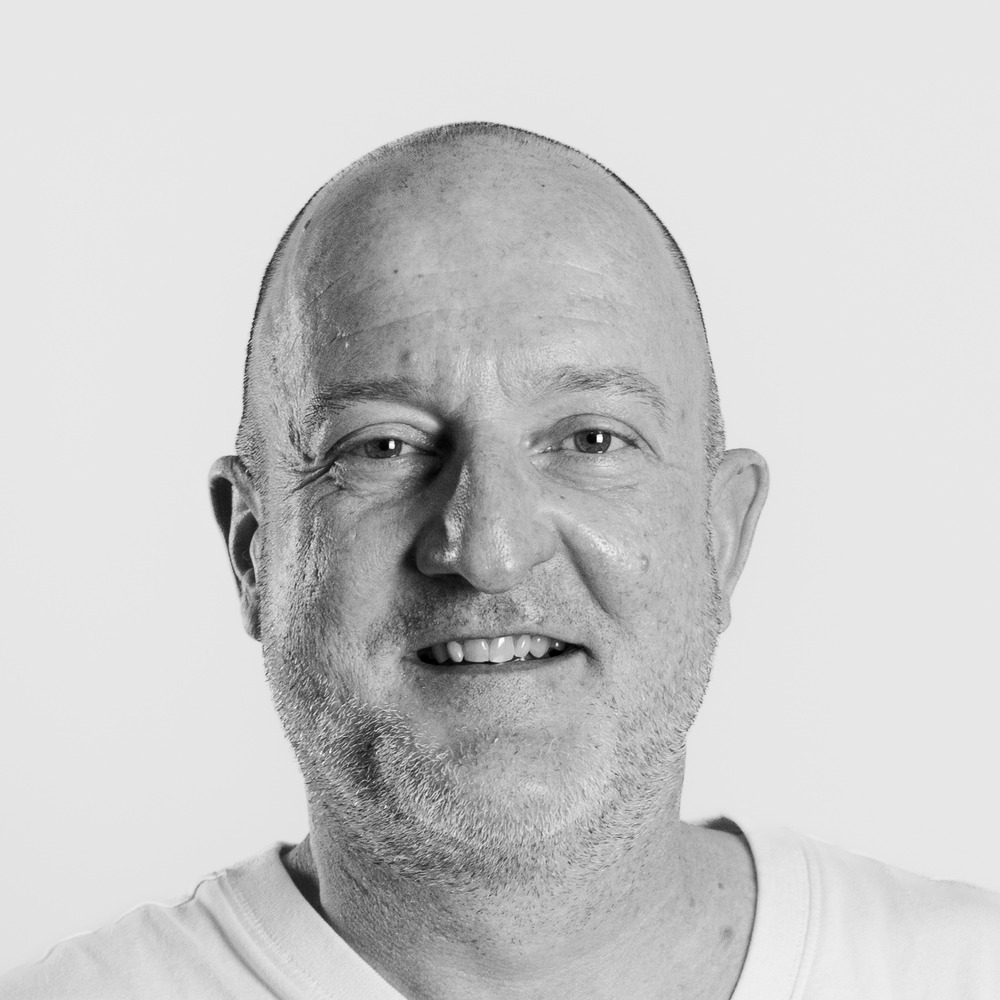
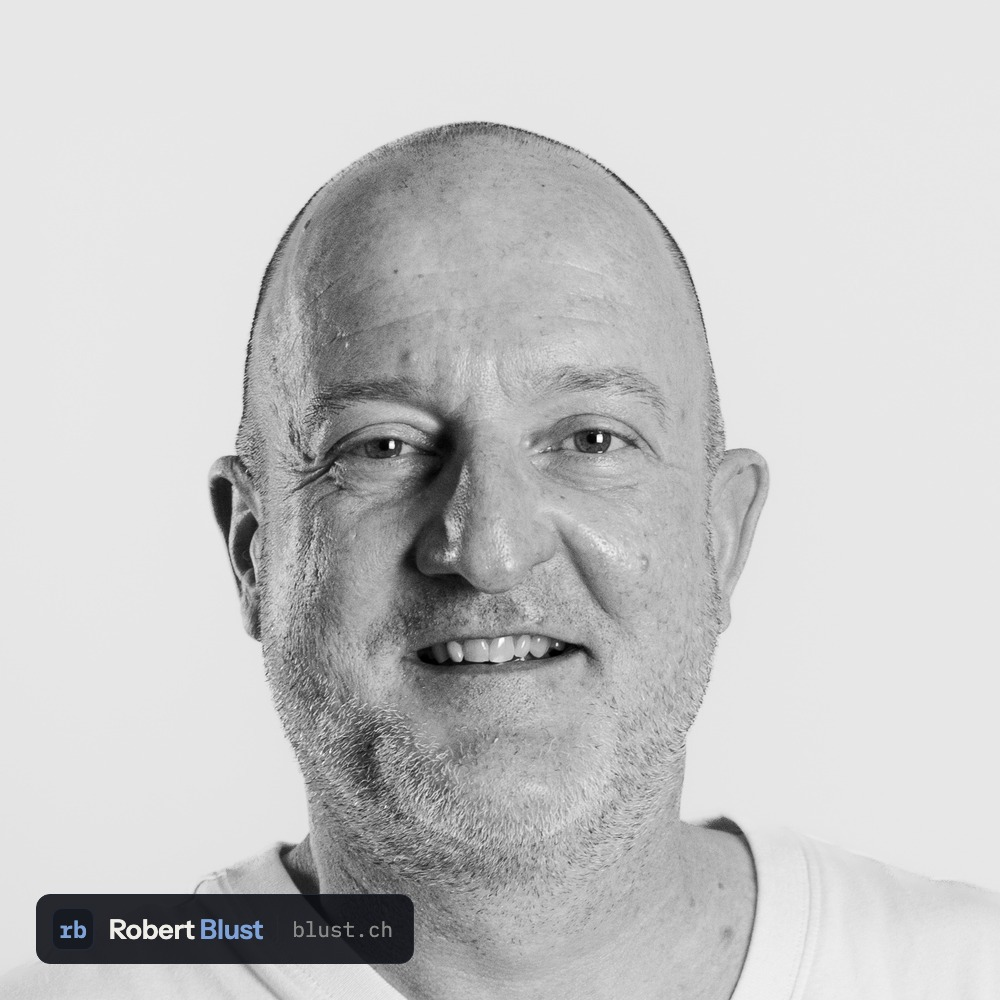
The site takes the picture with the blust.ch wordmark
The content pin moves to robertblust/mental-model@ee15d0b, where the
profile's picture carries the site's wordmark, bottom left
(robertblust/mental-model#169). Nothing else in the model changed, so
the site's copy of the picture is the one file that moves; model.json,
the two derived pages and the five share cards' shas change only with
the commit they name, and the card PNGs came back byte-identical.

On the card the picture is a 64 pixel circle, which cuts the corner the
wordmark sits in, so the card reads as before.

Verified: model:check exits 0 and the served copy is byte-identical to
the model's file; on a served copy verify passes on all eleven pages and
design links resolves every own link; pages:check, og:check,
pin:check, design:check, sitemap:check, test:build, test:og and both
conventions checks exit 0.

Changed region(s): [[0.031, 0.868, 0.434, 0.961]]

diff --git a/principles/index.html b/principles/index.html
@@ -705,7 +705,7 @@
       </article>
     </section>
 
-    <p class="derived" data-de="Erzeugt aus <a href='https://github.com/robertblust/mental-model'>robertblust/mental-model</a>@1d23718 – <code class='mono'>model/vision.md</code> und <code class='mono'>model/values/</code>. Dieses Repository ist eine Instanz von <a href='https://companygraph.io/'>CompanyGraph</a>, einem Meta-Modell, das ein Unternehmen als Graph aus Markdown beschreibt.">Generated from <a href="https://github.com/robertblust/mental-model">robertblust/mental-model</a>@1d23718 — <code class="mono">model/vision.md</code> and <code class="mono">model/values/</code>. That repository is an instance of <a href="https://companygraph.io/">CompanyGraph</a>, a meta-model for describing a company as a graph of Markdown.</p>
+    <p class="derived" data-de="Erzeugt aus <a href='https://github.com/robertblust/mental-model'>robertblust/mental-model</a>@ee15d0b – <code class='mono'>model/vision.md</code> und <code class='mono'>model/values/</code>. Dieses Repository ist eine Instanz von <a href='https://companygraph.io/'>CompanyGraph</a>, einem Meta-Modell, das ein Unternehmen als Graph aus Markdown beschreibt.">Generated from <a href="https://github.com/robertblust/mental-model">robertblust/mental-model</a>@ee15d0b — <code class="mono">model/vision.md</code> and <code class="mono">model/values/</code>. That repository is an instance of <a href="https://companygraph.io/">CompanyGraph</a>, a meta-model for describing a company as a graph of Markdown.</p>
     <!-- principles:end -->
   </div>
 </main>

diff --git a/surfaces/index.html b/surfaces/index.html
@@ -769,7 +769,7 @@
       <!-- surfaces:start -->
       <div class="lineage" id="lineage">
         <svg class="wires" id="wires" aria-hidden="true"></svg>
-        <div class="ln-model" id="lnmodel"><div class="lbl" data-de="Das Modell">The model</div><div class="nm">mental-model</div><div class="at mono">@1d23718</div></div>
+        <div class="ln-model" id="lnmodel"><div class="lbl" data-de="Das Modell">The model</div><div class="nm">mental-model</div><div class="at mono">@ee15d0b</div></div>
         <ul class="ln-groups">
           <li class="ln-group hand">
             <div class="ln-maker" data-maker="hand"><svg class="mk hand" aria-hidden="true"><use href="#m-hand"/></svg><span class="who"><span data-de="Der Owner">The owner</span><span class="how" data-de="von Hand">by hand</span></span></div>
